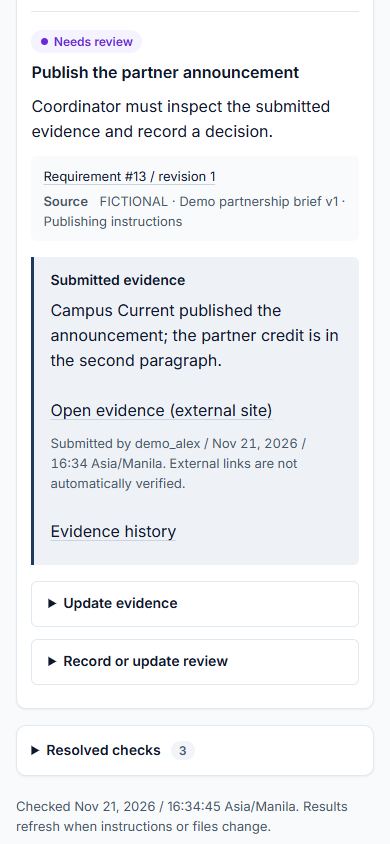
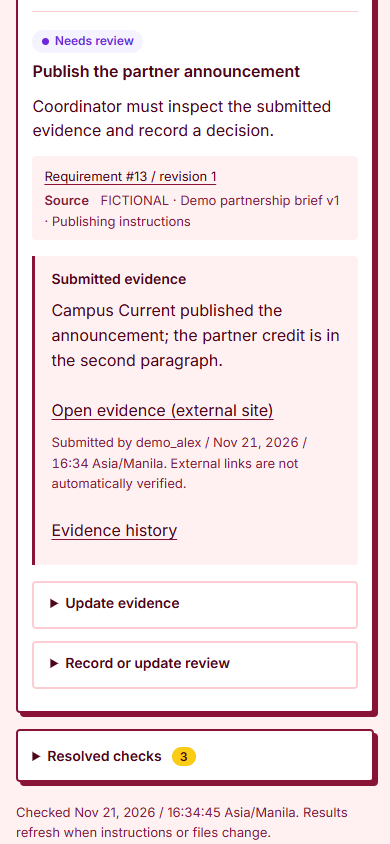
Switch the redesign to the owner-selected bold rose palette
The owner compared rendered dashboards for four directions, six palettes and
several variations, and chose the bold block style with a rose family: rose
header, burgundy primary buttons, stat tiles from rose to deep wine, yellow
highlights, 2px burgundy frames with hard offset shadows, uppercase UI
headings. Status colors are unchanged and always keep their text labels;
requirement titles and partner names keep their own case.

Contrast stays at WCAG AA (header text 4.7:1, buttons 8.0:1, input borders
4.8:1). No horizontal scroll on nine pages at 390px and 320px. The design
system was regenerated from the query this palette came from, and its
project decisions record the owner's choices.

Changed region(s): [[0.0308, 0.0, 0.9846, 1.0], [0.1231, 0.3081, 0.8615, 0.5853], [0.1231, 0.6161, 0.4615, 0.6469]]

diff --git a/static/app.css b/static/app.css
@@ -1,9 +1,10 @@
-/* Swiss workspace: navy authority, slate neutrals, green for success. Design system:
-   design-system/partner-deliverables-checker/MASTER.md (see "Project decisions"). */
+/* Bold rose workspace: rose header, burgundy actions, rose-family blocks with hard
+   shadows. Design system: design-system/partner-deliverables-checker/MASTER.md
+   (see "Project decisions"). */
 @font-face {
   font-family: "Inter";
   font-style: normal;
-  font-weight: 400 700;
+  font-weight: 100 900;
   font-display: swap;
   src: url("fonts/inter-latin-var.woff2") format("woff2");
   unicode-range: U+0000-00FF, U+0131, U+0152-0153, U+02BB-02BC, U+02C6, U+02DA, U+02DC, U+0304, U+0308, U+0329, U+2000-206F, U+20AC, U+2122, U+2191, U+2193, U+2212, U+2215, U+FEFF, U+FFFD;
@@ -11,15 +12,17 @@
 :root {
   color-scheme: light;
   /* Semantic colors (WCAG AA verified against their paired backgrounds). */
-  --paper: #f8fafc; --surface: #fff; --surface-2: #f1f5f9; --ink: #0f172a; --muted: #475569;
-  --line: #e2e8f0; --rule: #cbd5e1; --control: #7c8ba1;
-  --primary: #1e3a5f; --primary-hover: #152b47; --primary-tint: #eef2f7; --ring: #1e3a5f;
+  --paper: #fff1f2; --surface: #fff; --surface-2: #ffe4e6; --ink: #4c0519; --muted: #7f1d3a;
+  --line: #fecdd3; --rule: #881337; --control: #b4536b;
+  --primary: #9f1239; --primary-hover: #881337; --primary-tint: #fff1f2; --ring: #881337;
   --accent: var(--primary); --accent-hover: var(--primary-hover);
-  --header-bg: #1e3a5f; --header-ink: #fff; --header-muted: #cbd5e1; --header-active: #4ade80;
+  --header-bg: #e11d48; --header-ink: #fff; --header-muted: #fff; --header-active: #facc15;
+  --highlight: #facc15; --tile-1: #e11d48; --tile-2: #9f1239; --tile-3: #881337; --tile-4: #4c0519;
+  --shadow-block: 6px 6px 0 var(--rule); --shadow-block-sm: 4px 4px 0 var(--rule);
   --success: #15803d; --success-bg: #f0fdf4; --danger: #b91c1c; --danger-bg: #fef2f2;
   --warning: #a16207; --warning-bg: #fefce8; --review: #6d28d9; --review-bg: #f5f3ff;
   --space-1: .25rem; --space-2: .5rem; --space-3: .75rem; --space-4: 1rem; --space-5: 1.5rem; --space-6: 2rem; --space-7: 3rem;
-  --radius: 6px; --radius-lg: 10px;
+  --radius: 4px; --radius-lg: 4px;
   --shadow-sm: 0 1px 2px rgb(15 23 42 / .06); --shadow-md: 0 4px 12px rgb(15 23 42 / .08);
   --body: "Inter", "Segoe UI", system-ui, -apple-system, Arial, sans-serif; --editorial: var(--body);
   --mono: ui-monospace, "SFMono-Regular", Consolas, monospace;
@@ -200,7 +203,7 @@ form p { margin-bottom: 1.1rem; }
 label { display: block; margin-bottom: .4rem; font-size: .875rem; font-weight: 600; }
 input:not([type=checkbox]):not([type=radio]):not([type=hidden]), select, textarea { width: 100%; min-height: 44px; padding: .55rem .75rem; border: 1px solid var(--control); border-radius: var(--radius); background: var(--surface); color: var(--ink); transition: border-color var(--ease), box-shadow var(--ease); }
 input:not([type=checkbox]):not([type=radio]):not([type=hidden]):hover, select:hover, textarea:hover { border-color: var(--muted); }
-input:not([type=checkbox]):not([type=radio]):not([type=hidden]):focus-visible, select:focus-visible, textarea:focus-visible { outline: 2px solid transparent; border-color: var(--primary); box-shadow: 0 0 0 3px rgb(30 58 95 / .25); }
+input:not([type=checkbox]):not([type=radio]):not([type=hidden]):focus-visible, select:focus-visible, textarea:focus-visible { outline: 2px solid transparent; border-color: var(--primary); box-shadow: 0 0 0 3px rgb(136 19 55 / .25); }
 input[type=file] { max-width: 100%; padding: .45rem !important; font-size: .8125rem; }
 input[type=checkbox], input[type=radio] { width: 1.1rem; height: 1.1rem; accent-color: var(--primary); }
 textarea { min-height: 6rem; resize: vertical; }
@@ -267,3 +270,43 @@ input:disabled, select:disabled, textarea:disabled { background: var(--surface-2
 .coverage-row h2 { font: 600 1rem/1.5 var(--body); }
 .coverage-row dl { font-size: .875rem; }
 .button:disabled { opacity: .6; cursor: not-allowed; }
+
+/* Bold block layer: solid stat tiles, 2px burgundy frames with hard offset shadows,
+   uppercase headings. Status colors are unchanged so they keep a single meaning. */
+h1 { font-weight: 800; text-transform: uppercase; letter-spacing: -.01em; }
+nav a { font-weight: 500; }
+nav a.active { font-weight: 700; }
+.account-menu summary small { color: var(--header-ink); }
+.account-menu summary:hover { background: rgb(0 0 0 / .12); }
+.button { border-width: 2px; }
+.button.secondary { border: 2px solid var(--rule); background: var(--surface); color: var(--ink); }
+.button.secondary:hover { border-color: var(--rule); background: var(--surface-2); }
+.summary-strip>div { border: 0; box-shadow: none; }
+.summary-strip>div:nth-child(4n+1) { background: var(--tile-1); }
+.summary-strip>div:nth-child(4n+2) { background: var(--tile-2); }
+.summary-strip>div:nth-child(4n+3) { background: var(--tile-3); }
+.summary-strip>div:nth-child(4n+4) { background: var(--tile-4); }
+.summary-strip dt, .summary-strip dd { color: #fff; }
+.summary-strip dd { font-size: 2rem; font-weight: 800; }
+.worklist>section, .report-findings>section, .deadlines, .upload-panel, .files-panel, .passed-findings,
+.partner-panel, .coverage-row, .form-panel, .login-panel, .account-form, .supplement, .history-entry,
+.policy-page section { border: 2px solid var(--rule); box-shadow: var(--shadow-block); }
+.coverage-row, .history-entry, .supplement, .policy-page section { box-shadow: var(--shadow-block-sm); }
+.coverage-row, .history-entry { margin-bottom: 1.1rem; }
+.section-heading { border-bottom: 2px solid var(--rule); }
+.section-heading h2, .deadlines>h2, .upload-panel h2, .files-panel h2 { text-transform: uppercase; letter-spacing: .04em; font-weight: 800; }
+.count { background: var(--highlight); color: var(--ink); }
+.deadline-item time { color: var(--rule); }
+.row-action, .finding-action { color: var(--rule); }
+.evidence-summary { border-left-color: var(--rule); background: var(--paper); }
+.review-box, .review-box[open] { border: 2px solid var(--line); }
+.notice { border-left-width: 6px; }
+.site-footer { border-top: 2px solid var(--line); }
+@media (max-width: 480px) {
+  .worklist>section, .report-findings>section, .deadlines, .upload-panel, .files-panel, .passed-findings,
+  .partner-panel, .form-panel, .login-panel, .account-form { box-shadow: var(--shadow-block-sm); }
+  .summary-strip dd { font-size: 1.5rem; }
+}
+/* Keep user data (requirement titles, partner names) in its own case. */
+.coverage-row .section-heading h2, .partner-panel .section-heading h2 { text-transform: none; letter-spacing: -.005em; font-weight: 700; }
+.section-note + .coverage-row { margin-top: 1rem; }

diff --git a/design-system/partner-deliverables-checker/tokens.css b/design-system/partner-deliverables-checker/tokens.css
@@ -8,24 +8,24 @@
 
 /* === SEMANTIC === */
 :root {
-  --color-primary: #1E3A5F;
+  --color-primary: #E11D48;
   --color-on-primary: #FFFFFF;
-  --color-secondary: #2563EB;
-  --color-on-secondary: #FFFFFF;
-  --color-accent: #16A34A;
-  --color-on-accent: #000000;
-  --color-background: #F8FAFC;
-  --color-foreground: #0F172A;
+  --color-secondary: #FB7185;
+  --color-on-secondary: #0F172A;
+  --color-accent: #2563EB;
+  --color-on-accent: #FFFFFF;
+  --color-background: #FFF1F2;
+  --color-foreground: #881337;
   --color-card: #FFFFFF;
-  --color-card-foreground: #0F172A;
-  --color-muted: #E9EEF5;
+  --color-card-foreground: #881337;
+  --color-muted: #F0ECF2;
   --color-muted-foreground: #475569;
-  --color-border: #CBD5E1;
+  --color-border: #FECDD3;
   --color-destructive: #DC2626;
   --color-on-destructive: #FFFFFF;
-  --color-ring: #1E3A5F;
-  --font-heading: Inter, sans-serif;
-  --font-body: "Playfair Display", serif;
+  --color-ring: #E11D48;
+  --font-heading: Outfit, sans-serif;
+  --font-body: "Work Sans", sans-serif;
   --space-xs: 4px;
   --space-sm: 8px;
   --space-md: 16px;

diff --git a/design-system/partner-deliverables-checker/MASTER.md b/design-system/partner-deliverables-checker/MASTER.md
@@ -7,34 +7,40 @@
 ---
 
 **Project:** Partner Deliverables Checker
-**Generated:** 2026-11-21 20:29:30
-**Category:** E-signature / Document Workflow
+**Generated:** 2026-11-21 21:22:23
+**Category:** General
 **Token files:** `tokens.json` (W3C Design Tokens Community Group JSON).
 **CSS variables:** `tokens.css` (`:root` custom properties).
 Token files are master-level only; `--page` overrides do not emit tokens.
-**Design Dials:** Density 7/10 (Standard)
+**Design Dials:** Variance 8/10 (Bold / Asymmetric) | Density 7/10 (Standard)
 
 ---
 
 ## Project decisions (override the generated rules below)
 
-Generated with UI/UX Pro Max (`"compliance document review audit tool" --design-system
---density 7`) and adapted for an authenticated Django app built with templates and
-plain CSS. The live implementation is `static/app.css`.
+Generated with UI/UX Pro Max (`"bold vibrant energetic" --design-system --variance 8
+--density 7`), then refined with the owner by comparing rendered dashboards. The live
+implementation is `static/app.css`; the values below win over the generated tables.
 
-- **Fonts:** Inter for headings and body, self-hosted from `static/fonts/` (SIL OFL).
-  Playfair Display is not used: a display serif hurts readability in dense forms and
-  tables. No Google Fonts request is made, so users' browsers do not contact Google.
-- **Actions:** primary buttons are navy `#1E3A5F` with white text (11.5:1). Green is
-  reserved for success/"passed" states (`#15803D` on `#F0FDF4`), never for buttons, so
-  status color keeps one meaning. Statuses always pair color with a text label.
-- **Header:** navy band; muted nav text `#CBD5E1` (7.7:1), active indicator `#4ADE80`.
-- **Controls:** input borders `#7C8BA1` (3.5:1 against white, WCAG 1.4.11); focus is a
-  2px navy outline (white inside the header) plus a soft ring on inputs.
-- **Surfaces:** white cards with 1px `#E2E8F0` borders, 10px radius and a subtle shadow
-  on a `#F8FAFC` page. No hover lift or scale transforms on content.
-- **Not applicable to this app:** the generated landing-page pattern ("Enterprise
-  Gateway"), modals with blur, and `cursor: pointer` cards.
+- **Palette (owner-selected):** rose header `#E11D48`; burgundy primary buttons
+  `#9F1239` (white text 8.0:1, hover `#881337`); page `#FFF1F2`; text `#4C0519`;
+  muted text `#7F1D3A`; dividers `#FECDD3`; frames and focus `#881337`; yellow
+  highlights `#FACC15` (active nav bar, count chips). The generated blue accent
+  `#2563EB` was rejected as out of place and is not used.
+- **Stat tiles:** solid rose family in order `#E11D48`, `#9F1239`, `#881337`, deep
+  wine `#4C0519` (owner replaced black), all with white text (4.7:1 or higher).
+- **Block style:** 2px burgundy frames with hard offset shadows (6px; 4px on phones
+  and secondary cards), 4px radius, uppercase extra-bold page and section headings.
+- **Status colors stay fixed** and are always paired with text: failed `#B91C1C`,
+  missing `#A16207`, needs review `#6D28D9`, passed `#15803D`.
+- **Header text is white** (4.7:1 on rose); lighter tints such as `#FFE4E6` fall
+  below 4.5:1 there and are not used for text.
+- **Controls:** input borders `#B4536B` (4.8:1 against white); focus is a 2px burgundy
+  outline (white inside the header) plus a soft ring on inputs.
+- **Fonts:** Inter (100–900 variable) self-hosted from `static/fonts/` under the
+  SIL OFL; no third-party font requests.
+- **Not applicable to this app:** the generated landing-page pattern, marketing
+  sections and any decorative motion.
 
 
 
@@ -42,35 +48,35 @@ plain CSS. The live implementation is `static/app.css`.
 
 | Role | Hex | CSS Variable |
 |------|-----|--------------|
-| Primary | `#1E3A5F` | `--color-primary` |
+| Primary | `#E11D48` | `--color-primary` |
 | On Primary | `#FFFFFF` | `--color-on-primary` |
-| Secondary | `#2563EB` | `--color-secondary` |
-| On Secondary | `#FFFFFF` | `--color-on-secondary` |
-| Accent/CTA | `#16A34A` | `--color-accent` |
-| On Accent/CTA | `#000000` | `--color-on-accent` |
-| Background | `#F8FAFC` | `--color-background` |
-| Foreground | `#0F172A` | `--color-foreground` |
+| Secondary | `#FB7185` | `--color-secondary` |
+| On Secondary | `#0F172A` | `--color-on-secondary` |
+| Accent/CTA | `#2563EB` | `--color-accent` |
+| On Accent/CTA | `#FFFFFF` | `--color-on-accent` |
+| Background | `#FFF1F2` | `--color-background` |
+| Foreground | `#881337` | `--color-foreground` |
 | Card | `#FFFFFF` | `--color-card` |
-| Card Foreground | `#0F172A` | `--color-card-foreground` |
-| Muted | `#E9EEF5` | `--color-muted` |
+| Card Foreground | `#881337` | `--color-card-foreground` |
+| Muted | `#F0ECF2` | `--color-muted` |
 | Muted Foreground | `#475569` | `--color-muted-foreground` |
-| Border | `#CBD5E1` | `--color-border` |
+| Border | `#FECDD3` | `--color-border` |
 | Destructive | `#DC2626` | `--color-destructive` |
 | On Destructive | `#FFFFFF` | `--color-on-destructive` |
-| Ring | `#1E3A5F` | `--color-ring` |
+| Ring | `#E11D48` | `--color-ring` |
 
-**Color Notes:** Trust navy + signature green + audit trail
+**Color Notes:** Vibrant rose + engagement blue
 
 ### Typography
 
-- **Heading Font:** Inter
-- **Body Font:** Playfair Display
-- **Mood:** bold typography, editorial, poster, near-black, vermillion, luxury, type-as-hero, manifesto, high-contrast
-- **Google Fonts:** [Inter + Playfair Display](https://fonts.googleapis.com/css2?family=Inter:ital,wght@0,400;0,500;0,600;0,700;0,800;1,400&family=JetBrains+Mono:wght@400&family=Playfair+Display:ital@1)
+- **Heading Font:** Outfit
+- **Body Font:** Work Sans
+- **Mood:** geometric, modern, clean, balanced, contemporary, versatile
+- **Google Fonts:** [Outfit + Work Sans](https://fonts.googleapis.com/css2?family=Outfit:wght@300;400;500;600;700&family=Work+Sans:wght@300;400;500;600;700&display=swap)
 
 **CSS Import:**
 ```css
-@import url('https://fonts.googleapis.com/css2?family=Inter:ital,wght@0,400;0,500;0,600;0,700;0,800;1,400&family=JetBrains+Mono:wght@400&family=Playfair+Display:ital@1&display=swap');
+@import url('https://fonts.googleapis.com/css2?family=Outfit:wght@300;400;500;600;700&family=Work+Sans:wght@300;400;500;600;700&display=swap');
 ```
 
 ### Spacing Variables
@@ -105,8 +111,8 @@ plain CSS. The live implementation is `static/app.css`.
 ```css
 /* Primary Button */
 .btn-primary {
-  background: #16A34A;
-  color: #000000;
+  background: #2563EB;
+  color: #FFFFFF;
   padding: 12px 24px;
   border-radius: 8px;
   font-weight: 600;
@@ -122,8 +128,8 @@ plain CSS. The live implementation is `static/app.css`.
 /* Secondary Button */
 .btn-secondary {
   background: transparent;
-  color: #1E3A5F;
-  border: 2px solid #1E3A5F;
+  color: #881337;
+  border: 2px solid #E11D48;
   padding: 12px 24px;
   border-radius: 8px;
   font-weight: 600;
@@ -136,7 +142,7 @@ plain CSS. The live implementation is `static/app.css`.
 
 ```css
 .card {
-  background: #F8FAFC;
+  background: #FFF1F2;
   border-radius: 12px;
   padding: 24px;
   box-shadow: var(--shadow-md);
@@ -162,9 +168,9 @@ plain CSS. The live implementation is `static/app.css`.
 }
 
 .input:focus {
-  border-color: #1E3A5F;
+  border-color: #E11D48;
   outline: none;
-  box-shadow: 0 0 0 3px #1E3A5F20;
+  box-shadow: 0 0 0 3px #E11D4820;
 }
 ```
 
@@ -190,29 +196,26 @@ plain CSS. The live implementation is `static/app.css`.
 
 ## Style Guidelines
 
-**Style:** Minimalism & Swiss Style
+**Style:** Brutalism
 
-**Keywords:** Clean, simple, spacious, functional, white space, high contrast, geometric, sans-serif, grid-based, essential
+**Keywords:** Raw, unpolished, stark, high contrast, plain text, default fonts, visible borders, asymmetric, anti-design
 
-**Best For:** Enterprise apps, dashboards, documentation sites, SaaS platforms, professional tools
+**Best For:** Design portfolios, artistic projects, counter-culture brands, editorial/media sites, tech blogs
 
-**Key Effects:** Subtle hover (200-250ms), smooth transitions, sharp shadows if any, clear type hierarchy, fast loading
+**Key Effects:** No smooth transitions (instant), sharp corners (0px), bold typography (700+), visible grid, large blocks
 
 ### Page Pattern
 
-**Pattern Name:** Enterprise Gateway
+**Pattern Name:** Hero + Features + CTA
 
-- **Conversion Strategy:** Path selection (I am a...). Mega menu navigation. Trust signals prominent. Provide pause/stop for video and rotating logos; stop on focus and reduced motion. Logo carousel controls must be keyboard operable; pause moving media offscreen/hidden and render a static final state under reduced motion.
-- **CTA Placement:** Contact Sales (Primary) + Login (Secondary)
-- **Section Order:** Hero (Video/Mission) > Solutions by Industry > Solutions by Role > Client Logos > Contact Sales
+- **Conversion Strategy:** Deep CTA placement. For CTA label text, verify at least 4.5:1 against the button fill; use 7:1 only when the product explicitly targets AAA normal-text contrast. Keep focus and component boundaries independently visible. Disable hero parallax under reduced motion and render its static final state.
+- **CTA Placement:** Hero (sticky) + Bottom
+- **Section Order:** Hero with headline/image > Value prop > Key features (3-5) > CTA section > Footer
 
 ---
 
 ## Anti-Patterns (Do NOT Use)
 
-- ❌ Confusing signing flow
-- ❌ weak audit trail
-- ❌ hidden consent
 
 ### Additional Forbidden Patterns
 
